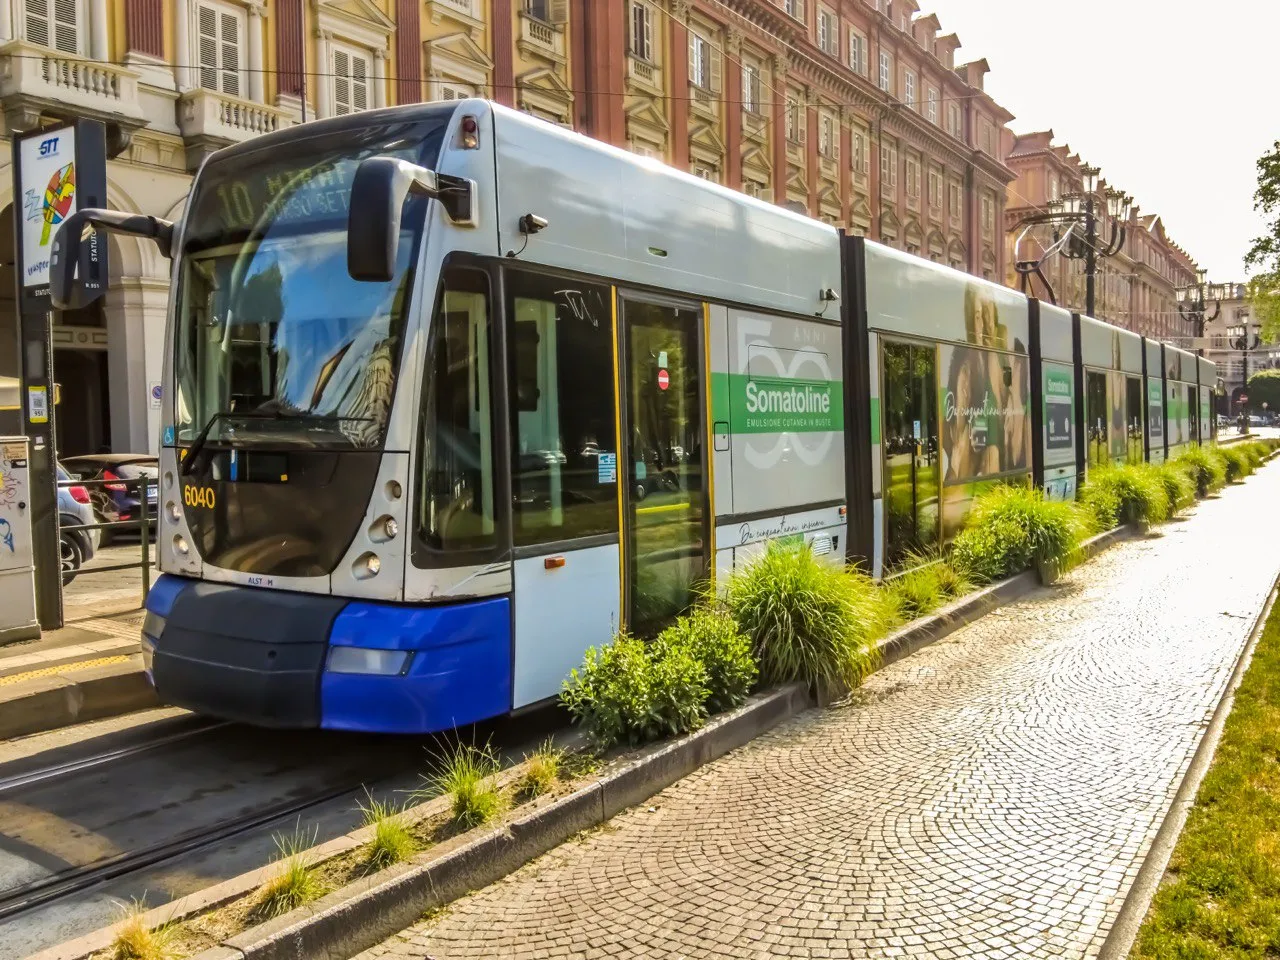
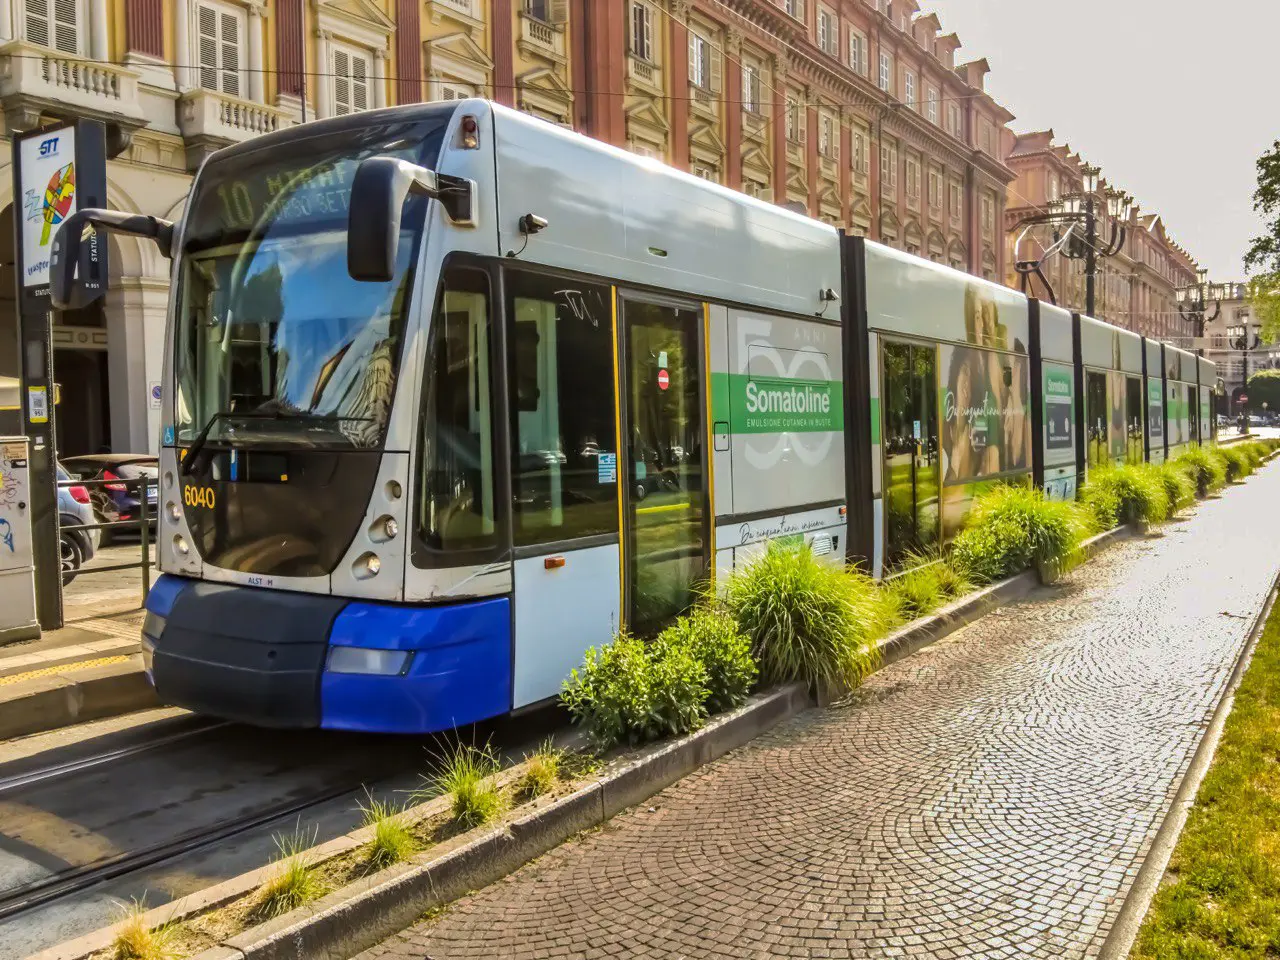
Fixing and resizing vehicle images

Changed region(s): [[0.2812, 0.4688, 1.0, 1.0], [0.7188, 0.0, 1.0, 0.3125]]

diff --git a/src/lib/vehicleImages.ts b/src/lib/vehicleImages.ts
@@ -61,7 +61,7 @@ const vehicles = [
     }, {
         idL: 3000,
         idH: 3099,
-        url: "/vehicles/3010.webp", //TODO: resize image
+        url: "/vehicles/3010.webp",
         credits: "torino_tmt",
         link: "https://www.instagram.com/torino_tmt",
         siteName: "Instagram",
@@ -153,7 +153,7 @@ const vehicles = [
     }, {
         idL: 2801,
         idH: 2902,
-        url: "/vehicles/2859.webp", //TODO: remove graffiti
+        url: "/vehicles/2859.webp",
         info: "https://www.tramditorino.it/tram_serie_2800.htm",
         credits: "torino_tmt",
         link: "https://www.instagram.com/torino_tmt",
@@ -169,7 +169,7 @@ const vehicles = [
     }, {
         idL: 6000,
         idH: 6005,
-        url: "/vehicles/6001.webp", //TODO: resize image
+        url: "/vehicles/6001.webp",
         info: "https://www.tramditorino.it/tram_serie_6000.htm",
         credits: "torino_tmt",
         link: "https://www.instagram.com/torino_tmt",
@@ -233,7 +233,7 @@ const vehiclesSup = [   //Vehicles on the Superga-Sassi special route, these IDs
     }
 ] satisfies vehicle[];
 
-const specialTram = [   //Green trams of the 2800 series - TODO: add gustotram and ristocolor
+const specialTram = [   //Green trams of the 2800 series
     {
         idL: 2807,
         idH: 2807,

diff --git a/src/routes/vehicle/[vehicle]/+page.svelte b/src/routes/vehicle/[vehicle]/+page.svelte
@@ -58,7 +58,7 @@
 
 	{#if data.info !== null}
 		<div class="mt-4 mb-6">
-			Maggiori informazioni sul sito di <a class="link" target="_blank" rel="noopener noreferrer" href={data.info}>Tram di Torino</a>.
+			Maggiori informazioni e schede tecniche sul sito di <a class="link" target="_blank" rel="noopener noreferrer" href={data.info}>Tram di Torino</a>.
 		</div>
 	{/if}
 
